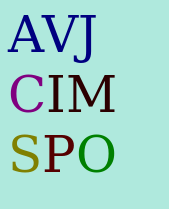
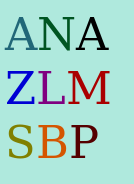
1.1

Changed region(s): [[0.0597, 0.625, 0.7463, 0.8696], [0.0299, 0.3533, 0.8358, 0.5707], [0.0299, 0.0543, 0.8358, 0.3261]]

diff --git a/output.html b/output.html
@@ -1,2 +1,2 @@
-<!DOCTYPE html><html><header><title>Texte créé par le script de décodage d'image</title><style>body{font-size:45px;color:white;background:rgb(175,233,221);}</style></header><body>
-<strong style='color:rgb(33,103,120);'>A</strong><em style='color:rgb(128,51,0);'>U</em><strong style='color:rgb(0,0,0);'>A</strong><br><span style='color:rgb(0,0,212);'>Z</span><em style='color:rgb(128,0,128);'>L</em><span style='color:rgb(170,0,0);'>M</span><br><strong style='color:rgb(128,128,0);'>S</strong><span style='color:rgb(212,85,0);'>B</span><em><strong style='color:rgb(85,0,0);'>P</strong></em><br></body></html>
+<!DOCTYPE html><html><head><title>Texte créé par le script de décodage d'image</title><style>body{font-size:43.6875px;color:white;background:rgb(255,204,170);}</style></head><body>
+<strong style='color:rgb(68,33,120);'>E</strong><span style='color:rgb(68,33,120);'>R</span><em><strong style='color:rgb(68,33,120);'>T</strong></em><strong style='color:rgb(68,33,120);'>S</strong><em><strong style='color:rgb(0,136,170);'>T</strong></em><span style='color:rgb(0,136,170);'>S</span><strong style='color:rgb(0,136,170);'>L</strong><strong style='color:rgb(0,136,170);'>M</strong><br><strong style='color:rgb(93,83,108);'>P</strong><strong style='color:rgb(93,83,108);'>R</strong><span style='color:rgb(95,84,109);'> </span><span style='color:rgb(212,170,0);'>J</span><span style='color:rgb(212,170,0);'>H</span><strong style='color:rgb(212,170,0);'>M</strong><span style='color:rgb(212,170,0);'>N</span><strong style='color:rgb(0,102,128);'>V</strong><br><em style='color:rgb(103,33,120);'>N</em><em style='color:rgb(103,33,120);'>H</em><em><strong style='color:rgb(103,33,120);'>T</strong></em><em style='color:rgb(103,33,120);'>N</em><span style='color:rgb(149,85,135);'> </span><strong style='color:rgb(93,83,108);'>P</strong><span style='color:rgb(93,83,108);'>L</span><span style='color:rgb(93,83,108);'>S</span><br><strong style='color:rgb(0,43,34);'> </strong><em><strong style='color:rgb(0,43,34);'>D</strong></em><strong style='color:rgb(85,0,0);'>M</strong><span style='color:rgb(85,0,0);'>N</span><strong style='color:rgb(85,0,0);'>T</strong><strong style='color:rgb(85,0,0);'>C</strong><strong style='color:rgb(55,200,171);'>D</strong><em><strong style='color:rgb(55,200,171);'>S</strong></em><br></body></html>

diff --git a/Rapports/Final/rapport.tex b/Rapports/Final/rapport.tex
@@ -46,13 +46,13 @@
 	\tableofcontents
 	\newpage
 	\section{Introduction}
-	Le présent rapport ne comprend que les éléments du livrable supplémentaire. Les principales fonctionnalités sont présentées dans le rapport d'avancement 2. \\
+	Le présent rapport ne comprend que les éléments du livrable supplémentaire. Les principales fonctionnalités sont présentées dans le rapport d'avancement 2. Les précédents codes, sources et rapports sont disponible sur le dépôt Git du projet : \url{https://github.com/tristanplouz/ProjetSignal} \\
 	Le livrable supplémentaire que nous avons décidé d'implémenter est la reconnaissance des couleurs et des styles. En effet reconnaitre du texte de toutes les couleurs mais ne pas pouvoir le retransmettre en couleur et avec des effets, c'est un peu triste, tout comme un ciel gris strasbourgeois ou un monde sans aucune couleur.
 	Nous allons dans un premier temps parler de comment retransmettre un document en couleur et dans un second temps nous verrons comment détecter les styles et les couleurs.
 	\section{Retransmission}
 	Dans la partie suivante, nous allons parler de comment détecter les éléments hypertextuels, mais dans cette partie nous allons parler de comment les retransmettre.\\
-	Nous avons besoin d'un format qui soit accessible et reproductible facilement. Lorsque l'on pense à des éléments colorés et stylisés, on pense premièrement à une image. Mais détecter du texte dans une image pur ensuite reproduire une image est un travail assez contre productif. Dans un second temps, nous pouvons penser à un fichier PDF contenant le texte stylisé. Cette technique n'est malheureusement pas simple à réaliser en ayant un PDF avec le texte accessible. La création d'un document PDF peut s'effectuer avec un traitement de texte, créer un fichier \texttt{.odt} n'est pas non plus simple. Nous pouvons penser à un compilateur \LaTeX{} mais encore une fois c'est un énorme outil pour une petite tache. Pour stocker du texte, on pense au format textuel comme le \texttt{.txt} ou le \texttt{Markdown} malheureusement c'est format ne prennent pas en compte les effets stylistique. Nous avons besoin d'un outil entre le simple fichier texte et le document de traitement texte au niveau de la complexité. Deux éléments peuvent alors apparaitre la syntaxe Wiki, cela permet de créer de gros document avec une structure et de la mise en forme, l'inconvénient est qu'il faut un interpréteur Wiki. On peut finalement arriver au \texttt{HTML}, ce langage de description textuel, permet de restituer des éléments textuels stylisés. De plus il est facilement interprétable, il suffit d'un simple navigateur. Couplé au \texttt{CSS}, il permet de réaliser tous les effets hypertextuels que nous souhaitons.
-	\paragraph{HTML et CSS} Le \texttt{HTML} (Hyper Text Markup Language) et le \texttt{CSS} (Cascading Style Sheets) sont des langages de balisages et de mise en forme principalement utilisé sur l'internet. Le \texttt{HTML}, créé dans les années 1990, est un des premiers pas du Web tel qu'on le connais aujourd'hui. Le \texttt{CSS} se démocratise dans les années 2000. Si le \texttt{HTML} décrit le squelette et les informations du document, le \texttt{CSS} se charge de la mise en page. Aujourd'hui, d'autres standards se sont rajouter dans le milieu des pages WEB et les pages constituées à 100\% en HTML et CSS ne sont que des vestiges des années 2010.
+	Nous avons besoin d'un format qui soit accessible et reproductible facilement. Lorsque l'on pense à des éléments colorés et stylisés, on pense premièrement à une image. Mais détecter du texte dans une image pur ensuite reproduire une image est un travail assez contre productif. Dans un second temps, nous pouvons penser à un fichier PDF contenant le texte stylisé. Cette technique n'est malheureusement pas simple à réaliser en ayant un PDF avec le texte accessible. La création d'un document PDF peut s'effectuer avec un traitement de texte, mais créer un fichier \texttt{.odt} n'est pas non plus simple. Nous pouvons penser à un compilateur \LaTeX{} mais encore une fois c'est un énorme outil pour une petite tâche. Pour stocker du texte, on pense au format textuel comme le \texttt{.txt} ou le \texttt{Markdown} malheureusement ces formats ne prennent pas en compte les effets stylistiques. Nous avons besoin d'un outil entre le simple fichier texte et le document de traitement texte au niveau de la complexité. Deux éléments peuvent alors apparaitre la syntaxe Wiki, cela permet de créer de gros document avec une structure et de la mise en forme, l'inconvénient est qu'il faut un interpréteur Wiki. On peut finalement arriver au \texttt{HTML}, ce langage de description textuel, permet de restituer des éléments textuels stylisés. De plus il est facilement interprétable, il suffit d'un simple navigateur. Couplé au \texttt{CSS}, il permet de réaliser tous les effets hypertextuels que nous souhaitons.
+	\paragraph{HTML et CSS} Le \texttt{HTML} (Hyper Text Markup Language) et le \texttt{CSS} (Cascading Style Sheets) sont des langages de balisages et de mise en forme principalement utilisé sur l'internet. Le \texttt{HTML}, créé dans les années 1990, est un des premiers pas du Web tel qu'on le connais aujourd'hui. Le \texttt{CSS} se démocratise dans les années 2000. Si le \texttt{HTML} décrit le squelette et les informations du document, le \texttt{CSS} se charge de la mise en page. Aujourd'hui, d'autres standards se sont rajouter dans le milieu des pages WEB et les pages constituées à 100\% en HTML et CSS ne sont que des vestiges des années 2010.\newpage
 	\paragraph{Application à notre sujet} Nous souhaitons réaliser une simple page qui reprend le texte décodé et les effets détecter.
 \begin{lstlisting}[caption={Structure de base du HTML},language=HTML]
 <!DOCTYPE html>
@@ -133,47 +133,68 @@ endif
        endfor
 \end{lstlisting}
 		Cette fois dans le code \texttt{HTML}, on injecte une balise de type \textsl{<em>} en lui définissant le style, la couleur de la lettre, dans la balise.
+\begin{lstlisting}[caption={Insertion d'un caractère italique dans Octave},language=Octave]
+ predict=cstrcat("<em style='color:rgb(",num2str(colorL(1)),",",num2str(colorL(2)),",",num2str(colorL(3)),");'>",predict,"</em>");
+\end{lstlisting}
+		
 	\subsection{Dimension}
 	Le premier essais représentait le texte en police standard, minuscule sur la page web, nous avons donc décidé de gérer une notion de dimension des caractères. Pour cela, on se base sur la taille des tuiles de recherche. Plus la tuile est grande plus la police de caractère sur la page web sera grande.
+\begin{lstlisting}[caption={Insertion de la couleur de fond dans Octave},language=Octave]
+page=cstrcat("[..]<style>body{
+background:rgb(",num2str(colorBG(1)),",",num2str(colorBG(2)),",",num2str(colorBG(3)),");
+font-size:",num2str(dx_search*0.75),"px;
+}</style>[..]");
+\end{lstlisting}
 	\section{Résultats}
 	\paragraph{Couleurs}
-	Voici les résultats de notre script sur le fichier \texttt{Couleur.png}.
+	Figure \ref{coul}, on peut voir les résultats de notre script sur le fichier \texttt{Couleur.png}.
 	\begin{figure}[h]
 	\centering
-		\includegraphics[height=0.25\textwidth]{../illus/Couleur.png}
-		\includegraphics[height=0.25\textwidth]{../illus/CouleurR.png}
-		\includegraphics[height=0.25\textwidth]{../illus/CouleurC.png}
+		\includegraphics[height=0.2\textwidth]{../illus/Couleur.png}
+		\includegraphics[height=0.2\textwidth]{../illus/CouleurR.png}
+		\includegraphics[height=0.2\textwidth]{../illus/CouleurC.png}
 		\caption{Image, capture de la page web, capture du code}
+		\label{coul}
 	\end{figure}
 	\paragraph{Gras}
-	Voici les résultats de notre script sur le fichier \texttt{Gras.png}.
+Figure \ref{gras}, on peut voir les résultats de notre script sur le fichier \texttt{Gras.png}.
 	\begin{figure}[h]
 	\centering
-		\includegraphics[height=0.25\textwidth]{../illus/Gras.png}
-		\includegraphics[height=0.25\textwidth]{../illus/GrasR.png}
-		\includegraphics[height=0.25\textwidth]{../illus/GrasC.png}
+		\includegraphics[height=0.2\textwidth]{../illus/Gras.png}
+		\includegraphics[height=0.2\textwidth]{../illus/GrasR.png}
+		\includegraphics[height=0.2\textwidth]{../illus/GrasC.png}
 		\caption{Image, capture de la page web, capture du code}
+		\label{gras}
 	\end{figure}
 	\paragraph{Italique}
-	Voici les résultats de notre script sur le fichier \texttt{Italique.png}.
-	\begin{figure}[h]
+	Figure \ref{it}, on peut voir les résultats de notre script sur le fichier \texttt{Italique.png}.
+	\begin{figure}[!h]
 	\centering
-		\includegraphics[height=0.25\textwidth]{../illus/Italique.png}
-		\includegraphics[height=0.25\textwidth]{../illus/ItaliqueR.png}
-		\includegraphics[height=0.25\textwidth]{../illus/ItaliqueC.png}
+		\includegraphics[height=0.2\textwidth]{../illus/Italique.png}
+		\includegraphics[height=0.2\textwidth]{../illus/ItaliqueR.png}
+		\includegraphics[height=0.2\textwidth]{../illus/ItaliqueC.png}
 		\caption{Image, capture de la page web, capture du code}
+		\label{it}
 	\end{figure}
 	\paragraph{Mix Total}
-	Voici les résultats de notre script sur le fichier \texttt{Mix.png}.
-	\begin{figure}[h]
+	Figure \ref{mix}, on peut voir les résultats de notre script sur le fichier \texttt{Mix.png}.
+	\begin{figure}[!h]
 	\centering
-		\includegraphics[height=0.25\textwidth]{../illus/Mix.png}
-		\includegraphics[height=0.25\textwidth]{../illus/MixR.png}
-		\includegraphics[height=0.25\textwidth]{../illus/MixC.png}
+		\includegraphics[height=0.2\textwidth]{../illus/Mix.png}
+		\includegraphics[height=0.2\textwidth]{../illus/MixR.png}
+		\includegraphics[height=0.2\textwidth]{../illus/MixC.png}
 		\caption{Image, capture de la page web, capture du code}
+		\label{mix}
 	\end{figure}
 	\subsection{Limitations}
 	Les performances de notre script sont très limités. Chaque image présente des spécificités qui rendent la détection compliquée. Le script actuel est optimisé pour les majuscules et surtout pour les fichiers images tests fournis, le script fonctionne avec d'autres images mais les résultats ne seront pas parfait, avec par exemple des faux italiques, gras ou caractères. 
+	On peut voir sur cet exemple que des caractères ne sont plus détecté ou que des faux styles apparaissent.
+	\begin{figure}[!h]
+	\centering
+		\includegraphics[height=0.25\textwidth]{../illus/CRASH.png}
+		\includegraphics[height=0.25\textwidth]{../illus/fail.png}
+		\caption{Image et capture de la page web}
+	\end{figure}
 	\section{Conclusion}
 	Au fur et à mesure que le projet avancé, nous avons réussi à détecter de plus en plus d'éléments textuel et hypertextuel sur les images. Même si l'italique reste encore problématique, nous avons réussi à remplir les principaux objectifs.
 	Le script que nous avons réalisé n'est pas le plus optimal il détecte relativement souvent des \textit{faux}, en effet la corrélation n'est pas le plus puissant et le plus optimisé des outils pour réaliser ce travail.

diff --git a/main.m b/main.m
@@ -327,7 +327,7 @@ for j=1:nb_carac_col %Pour chaque ligne
      [c,d]=max(mt);
      vIt=(d-a)/c
      it=false;
-     if ((vIt>38 &&vIt<130) ||(vIt>150 &&vIt<280) ||(vIt>720 && vIt<1000))
+     if ((vIt>38 &&vIt<130) ||(vIt>188 &&vIt<280) ||(vIt>720 && vIt<830))
        for h=1:length(tile)-1
         tile(end-h,:)=[tile(end-h,1+round(h*length(tile(1,:))/(length(tile)*4.1)):end) tile(end-h,1:round(h*length(tile(1,:))/(length(tile)*4.1)))];
         it=true;
@@ -503,7 +503,7 @@ endfor
 if hypert
   
 
-  page=cstrcat("<!DOCTYPE html><html><header><title>Texte créé par le script de décodage d'image</title><style>body{font-size:",num2str(dx_search*0.75),"px;color:white;background:rgb(",num2str(colorBG(1)),",",num2str(colorBG(2)),",",num2str(colorBG(3)),");}</style></header><body>",mot_pred,"</body></html>");
+  page=cstrcat("<!DOCTYPE html><html><head><title>Texte créé par le script de décodage d'image</title><style>body{font-size:",num2str(dx_search*0.75),"px;color:white;background:rgb(",num2str(colorBG(1)),",",num2str(colorBG(2)),",",num2str(colorBG(3)),");}</style></head><body>",mot_pred,"</body></html>");
  
   fid=fopen ("output.html", "w");
   fputs(fid,page);
